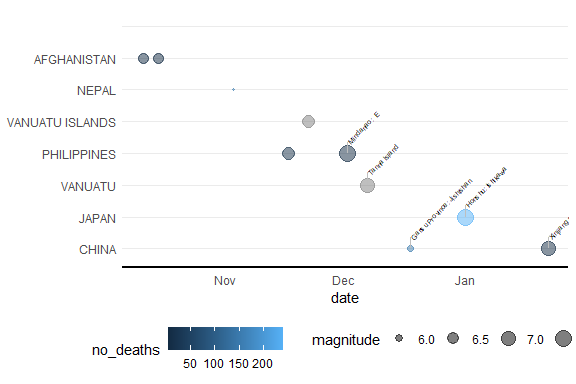
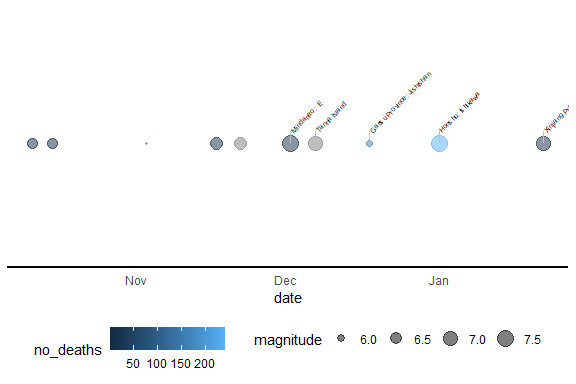
updated readme

diff --git a/README.html b/README.html
@@ -678,8 +678,8 @@ stripping out the country name and converting names to title case.</p>
 <h3 id="timeline-of-earthquakes-1">Timeline of Earthquakes</h3>
 <p>The geom_timelinelabel() function includes label as well.</p>
 <div class="sourceCode" id="cb6"><pre class="sourceCode r"><code class="sourceCode r"><span id="cb6-1"><a href="#cb6-1" tabindex="-1"></a><span class="fu">ggplot</span>(<span class="at">data =</span> df_visualize) <span class="sc">+</span></span>
-<span id="cb6-2"><a href="#cb6-2" tabindex="-1"></a>  <span class="fu">geom_timeline</span>(<span class="fu">aes</span>(date,country, <span class="at">size =</span> magnitude,  <span class="at">color =</span> no_deaths))  <span class="sc">+</span></span>
-<span id="cb6-3"><a href="#cb6-3" tabindex="-1"></a>  <span class="fu">geom_timelinelabel</span>(<span class="fu">aes</span>(date,country,<span class="at">label =</span> location), <span class="at">n_max =</span> <span class="dv">5</span>) <span class="sc">+</span></span>
+<span id="cb6-2"><a href="#cb6-2" tabindex="-1"></a>  <span class="fu">geom_timeline</span>(<span class="fu">aes</span>(date,<span class="at">size =</span> magnitude,  <span class="at">color =</span> no_deaths))  <span class="sc">+</span></span>
+<span id="cb6-3"><a href="#cb6-3" tabindex="-1"></a>  <span class="fu">geom_timelinelabel</span>(<span class="fu">aes</span>(date,<span class="at">label =</span> location), <span class="at">n_max =</span> <span class="dv">5</span>) <span class="sc">+</span></span>
 <span id="cb6-4"><a href="#cb6-4" tabindex="-1"></a>  <span class="fu">theme_minimal</span>() <span class="sc">+</span></span>
 <span id="cb6-5"><a href="#cb6-5" tabindex="-1"></a>  <span class="fu">theme</span>(</span>
 <span id="cb6-6"><a href="#cb6-6" tabindex="-1"></a>    <span class="at">axis.line.x =</span> <span class="fu">element_line</span>(<span class="at">linewidth =</span> <span class="fl">0.75</span>),</span>
@@ -690,7 +690,44 @@ stripping out the country name and converting names to title case.</p>
 <span id="cb6-11"><a href="#cb6-11" tabindex="-1"></a>  )</span>
 <span id="cb6-12"><a href="#cb6-12" tabindex="-1"></a><span class="co">#&gt; Warning: Removed 1 rows containing missing values (`geom_timeline()`).</span></span>
 <span id="cb6-13"><a href="#cb6-13" tabindex="-1"></a><span class="co">#&gt; Warning: Removed 1 rows containing missing values (`geom_timeline_label()`).</span></span></code></pre></div>
[1 lines of base64/hex data omitted]
+
+<div class="sourceCode" id="cb7"><pre class="sourceCode r"><code class="sourceCode r"><span id="cb7-1"><a href="#cb7-1" tabindex="-1"></a><span class="fu">ggplot</span>(<span class="at">data =</span> df_visualize) <span class="sc">+</span></span>
+<span id="cb7-2"><a href="#cb7-2" tabindex="-1"></a>  <span class="fu">geom_timeline</span>(<span class="fu">aes</span>(date,country, <span class="at">size =</span> magnitude,  <span class="at">color =</span> no_deaths))  <span class="sc">+</span></span>
+<span id="cb7-3"><a href="#cb7-3" tabindex="-1"></a>  <span class="fu">geom_timelinelabel</span>(<span class="fu">aes</span>(date,country,<span class="at">label =</span> location), <span class="at">n_max =</span> <span class="dv">5</span>) <span class="sc">+</span></span>
+<span id="cb7-4"><a href="#cb7-4" tabindex="-1"></a>  <span class="fu">theme_minimal</span>() <span class="sc">+</span></span>
+<span id="cb7-5"><a href="#cb7-5" tabindex="-1"></a>  <span class="fu">theme</span>(</span>
+<span id="cb7-6"><a href="#cb7-6" tabindex="-1"></a>    <span class="at">axis.line.x =</span> <span class="fu">element_line</span>(<span class="at">linewidth =</span> <span class="fl">0.75</span>),</span>
+<span id="cb7-7"><a href="#cb7-7" tabindex="-1"></a>    <span class="at">axis.title.y =</span> <span class="fu">element_blank</span>(),</span>
+<span id="cb7-8"><a href="#cb7-8" tabindex="-1"></a>    <span class="at">panel.grid.major.x =</span> <span class="fu">element_blank</span>(),</span>
+<span id="cb7-9"><a href="#cb7-9" tabindex="-1"></a>    <span class="at">panel.grid.minor.x =</span> <span class="fu">element_blank</span>(),</span>
+<span id="cb7-10"><a href="#cb7-10" tabindex="-1"></a>    <span class="at">legend.position =</span> <span class="st">&quot;bottom&quot;</span></span>
+<span id="cb7-11"><a href="#cb7-11" tabindex="-1"></a>  )</span>
+<span id="cb7-12"><a href="#cb7-12" tabindex="-1"></a><span class="co">#&gt; Warning: Removed 1 rows containing missing values (`geom_timeline()`).</span></span>
+<span id="cb7-13"><a href="#cb7-13" tabindex="-1"></a><span class="co">#&gt; Warning: Removed 1 rows containing missing values (`geom_timeline_label()`).</span></span></code></pre></div>
[1 lines of base64/hex data omitted]
+
+<h3 id="visualize-earthquakes-in-mexico-since-2000">Visualize
+Earthquakes in Mexico Since 2000</h3>
+<p>This function filters the cleaned earthquake data to include only
+earthquakes in Mexico since the year 2000 and visualizes them on a
+leaflet map. Each earthquake is represented by a circle on the map, with
+the circle’s radius proportional to the earthquake’s magnitude. The
+pop-up for each circle displays the date of the earthquake.
+eq_clean_data(“../inst/extdata/earthquakes.tsv”) %&gt;%
+eq_location_clean() %&gt;% filter(country==“MEXICO” &amp;
+lubridate::year(date) &gt;= 2000) %&gt;% eq_map(annot_col = “date”)</p>
+<h3 id="visualize-earthquakes-in-mexico-since-2000-with-custom-annotations">Visualize
+Earthquakes in Mexico Since 2000 with Custom Annotations</h3>
+<p>This function filters the cleaned earthquake data to include only
+earthquakes in Mexico since the year 2000. It then creates custom
+annotations for each earthquake, including information about the
+location, magnitude, and total deaths. These annotations are added to
+the leaflet map, providing more detailed information when a user
+interacts with the map. eq_clean_data(“../inst/extdata/earthquakes.tsv”)
+%&gt;% eq_location_clean() %&gt;% filter(country==“MEXICO” &amp;
+lubridate::year(date) &gt;= 2000) %&gt;% mutate(popup_text =
+eq_create_label(.)) %&gt;% eq_map(annot_col = “popup_text”)</p>
 
 </body>
 </html>

diff --git a/README.md b/README.md
@@ -103,6 +103,24 @@ The geom_timelinelabel() function includes label as well.
 
 ``` r
 ggplot(data = df_visualize) +
+  geom_timeline(aes(date,size = magnitude,  color = no_deaths))  +
+  geom_timelinelabel(aes(date,label = location), n_max = 5) +
+  theme_minimal() +
+  theme(
+    axis.line.x = element_line(linewidth = 0.75),
+    axis.title.y = element_blank(),
+    panel.grid.major.x = element_blank(),
+    panel.grid.minor.x = element_blank(),
+    legend.position = "bottom"
+  )
+#> Warning: Removed 1 rows containing missing values (`geom_timeline()`).
+#> Warning: Removed 1 rows containing missing values (`geom_timeline_label()`).
+```
+
+<img src="man/figures/README-unnamed-chunk-6-1.png" width="100%" />
+
+``` r
+ggplot(data = df_visualize) +
   geom_timeline(aes(date,country, size = magnitude,  color = no_deaths))  +
   geom_timelinelabel(aes(date,country,label = location), n_max = 5) +
   theme_minimal() +
@@ -117,4 +135,27 @@ ggplot(data = df_visualize) +
 #> Warning: Removed 1 rows containing missing values (`geom_timeline_label()`).
 ```
 
-<img src="man/figures/README-unnamed-chunk-6-1.png" width="100%" />
+<img src="man/figures/README-unnamed-chunk-7-1.png" width="100%" />
+
+### Visualize Earthquakes in Mexico Since 2000
+
+This function filters the cleaned earthquake data to include only
+earthquakes in Mexico since the year 2000 and visualizes them on a
+leaflet map. Each earthquake is represented by a circle on the map, with
+the circle’s radius proportional to the earthquake’s magnitude. The
+pop-up for each circle displays the date of the earthquake.
+eq_clean_data(“../inst/extdata/earthquakes.tsv”) %\>%
+eq_location_clean() %\>% filter(country==“MEXICO” &
+lubridate::year(date) \>= 2000) %\>% eq_map(annot_col = “date”)
+
+### Visualize Earthquakes in Mexico Since 2000 with Custom Annotations
+
+This function filters the cleaned earthquake data to include only
+earthquakes in Mexico since the year 2000. It then creates custom
+annotations for each earthquake, including information about the
+location, magnitude, and total deaths. These annotations are added to
+the leaflet map, providing more detailed information when a user
+interacts with the map. eq_clean_data(“../inst/extdata/earthquakes.tsv”)
+%\>% eq_location_clean() %\>% filter(country==“MEXICO” &
+lubridate::year(date) \>= 2000) %\>% mutate(popup_text =
+eq_create_label(.)) %\>% eq_map(annot_col = “popup_text”)
